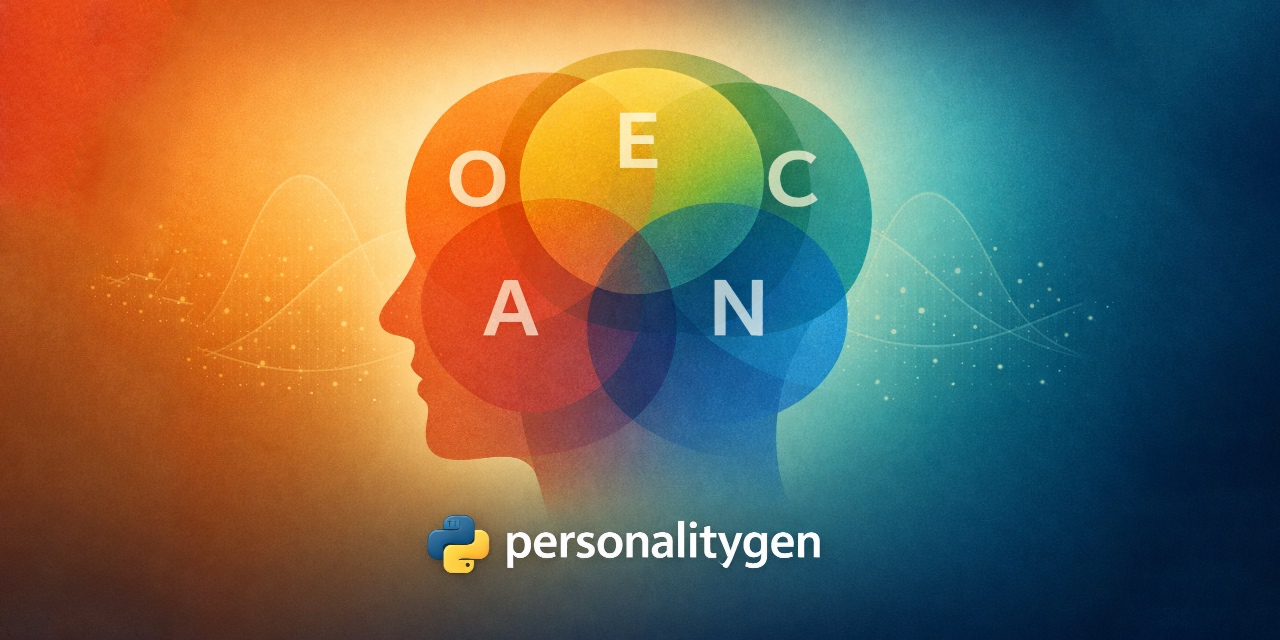
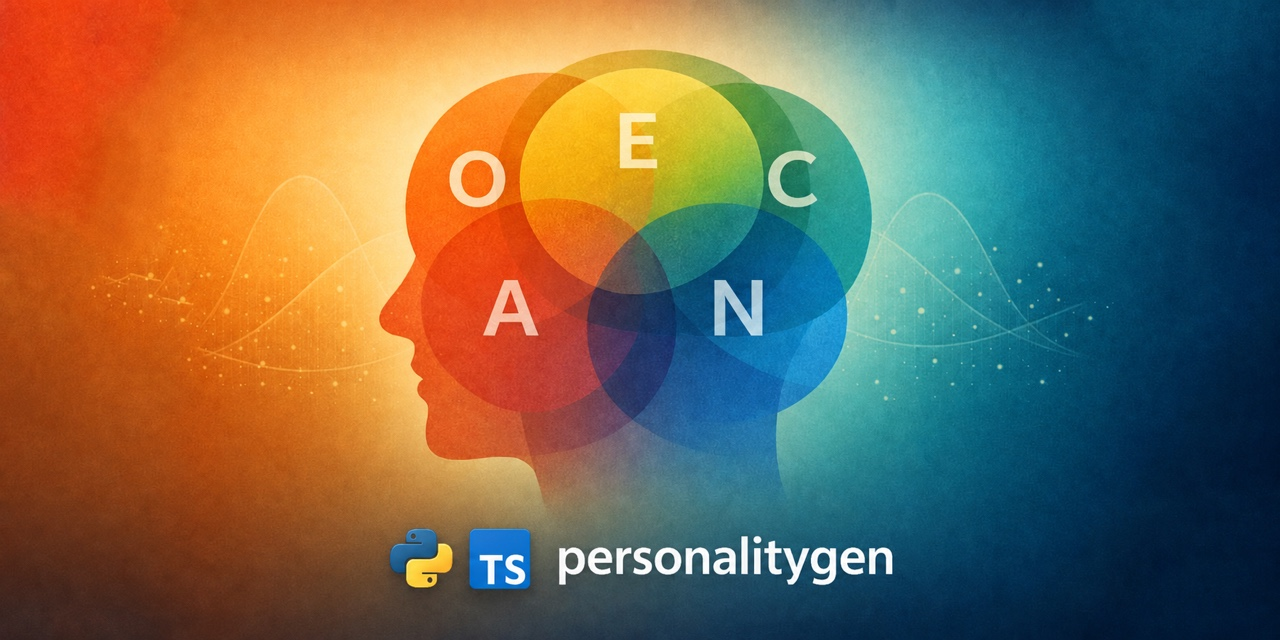
Refresh social preview for Python and TypeScript

Changed region(s): [[0.2812, 0.7812, 0.7188, 0.9375]]

diff --git a/README.md b/README.md
@@ -1,6 +1,6 @@
 # personalitygen
 
-![personalitygen social preview](https://raw.githubusercontent.com/btfranklin/personalitygen/main/.github/social%20preview/personalitygen_social_preview.jpg "personalitygen")
+![personalitygen banner](https://raw.githubusercontent.com/btfranklin/personalitygen/main/.github/social%20preview/personalitygen_social_preview.jpg "personalitygen")
 
 `personalitygen` generates simulated character personalities for games,
 storytelling, simulations, and tests. The project models conventional Big Five
